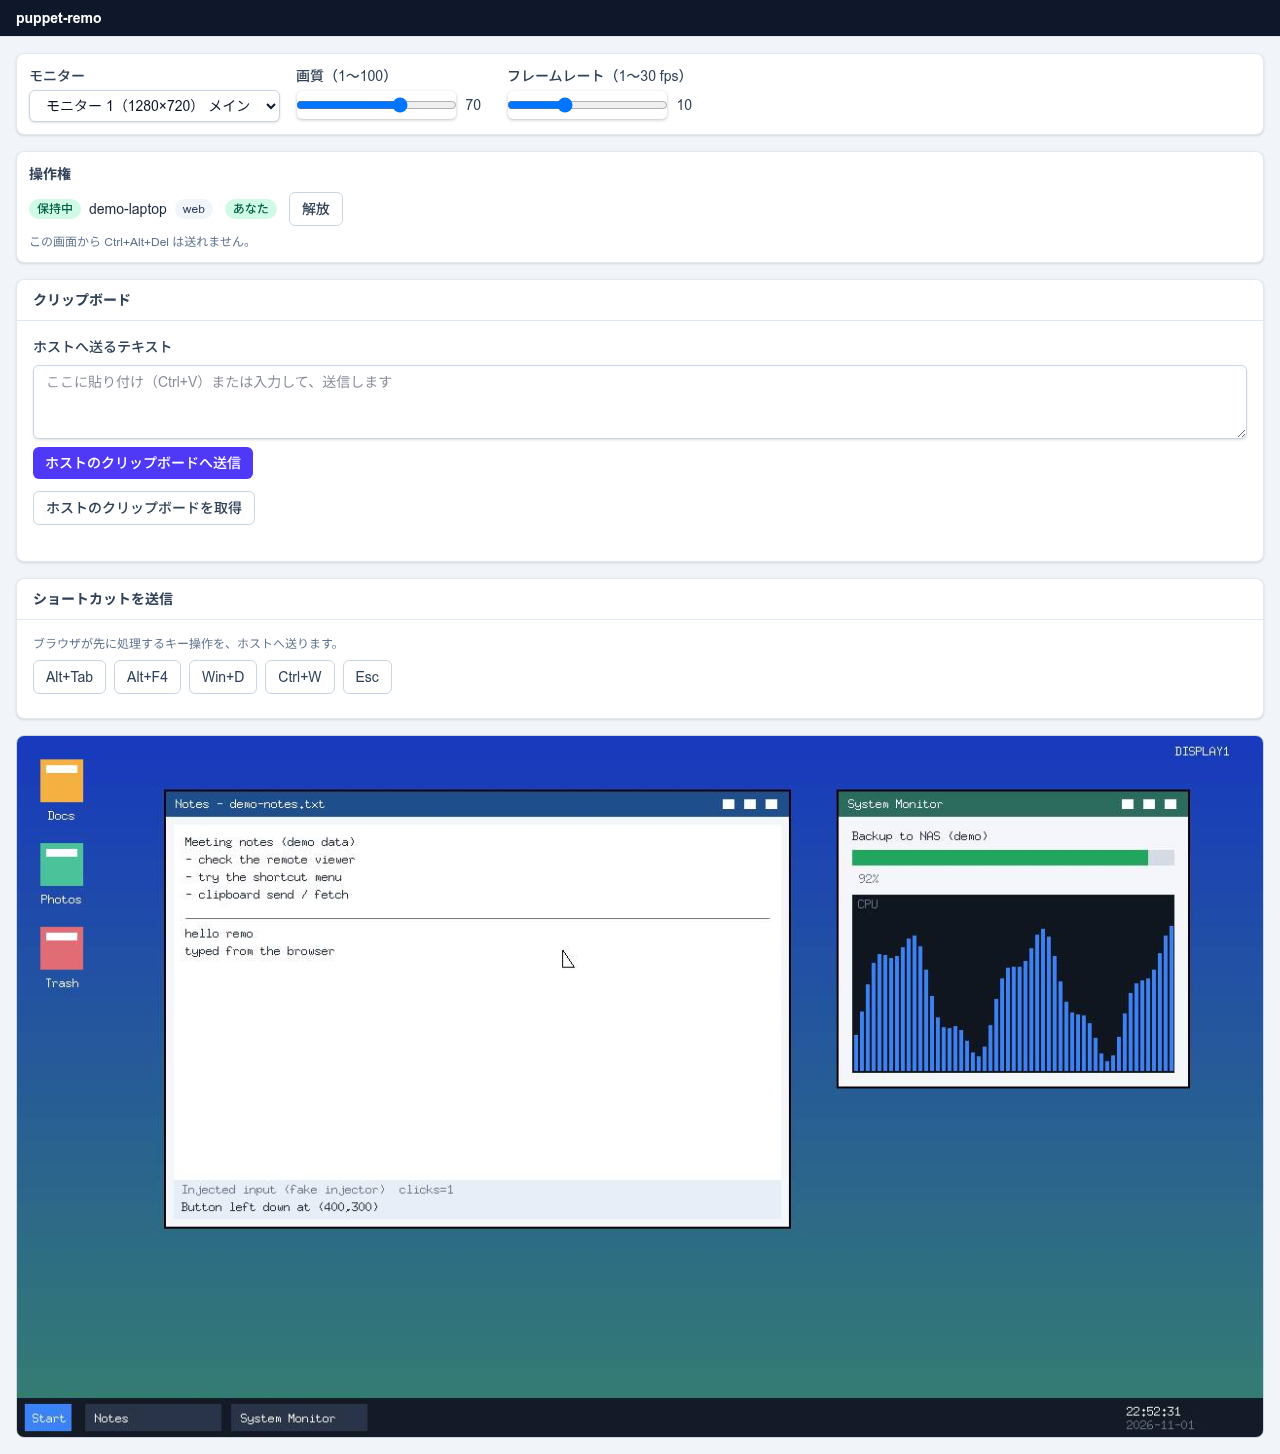
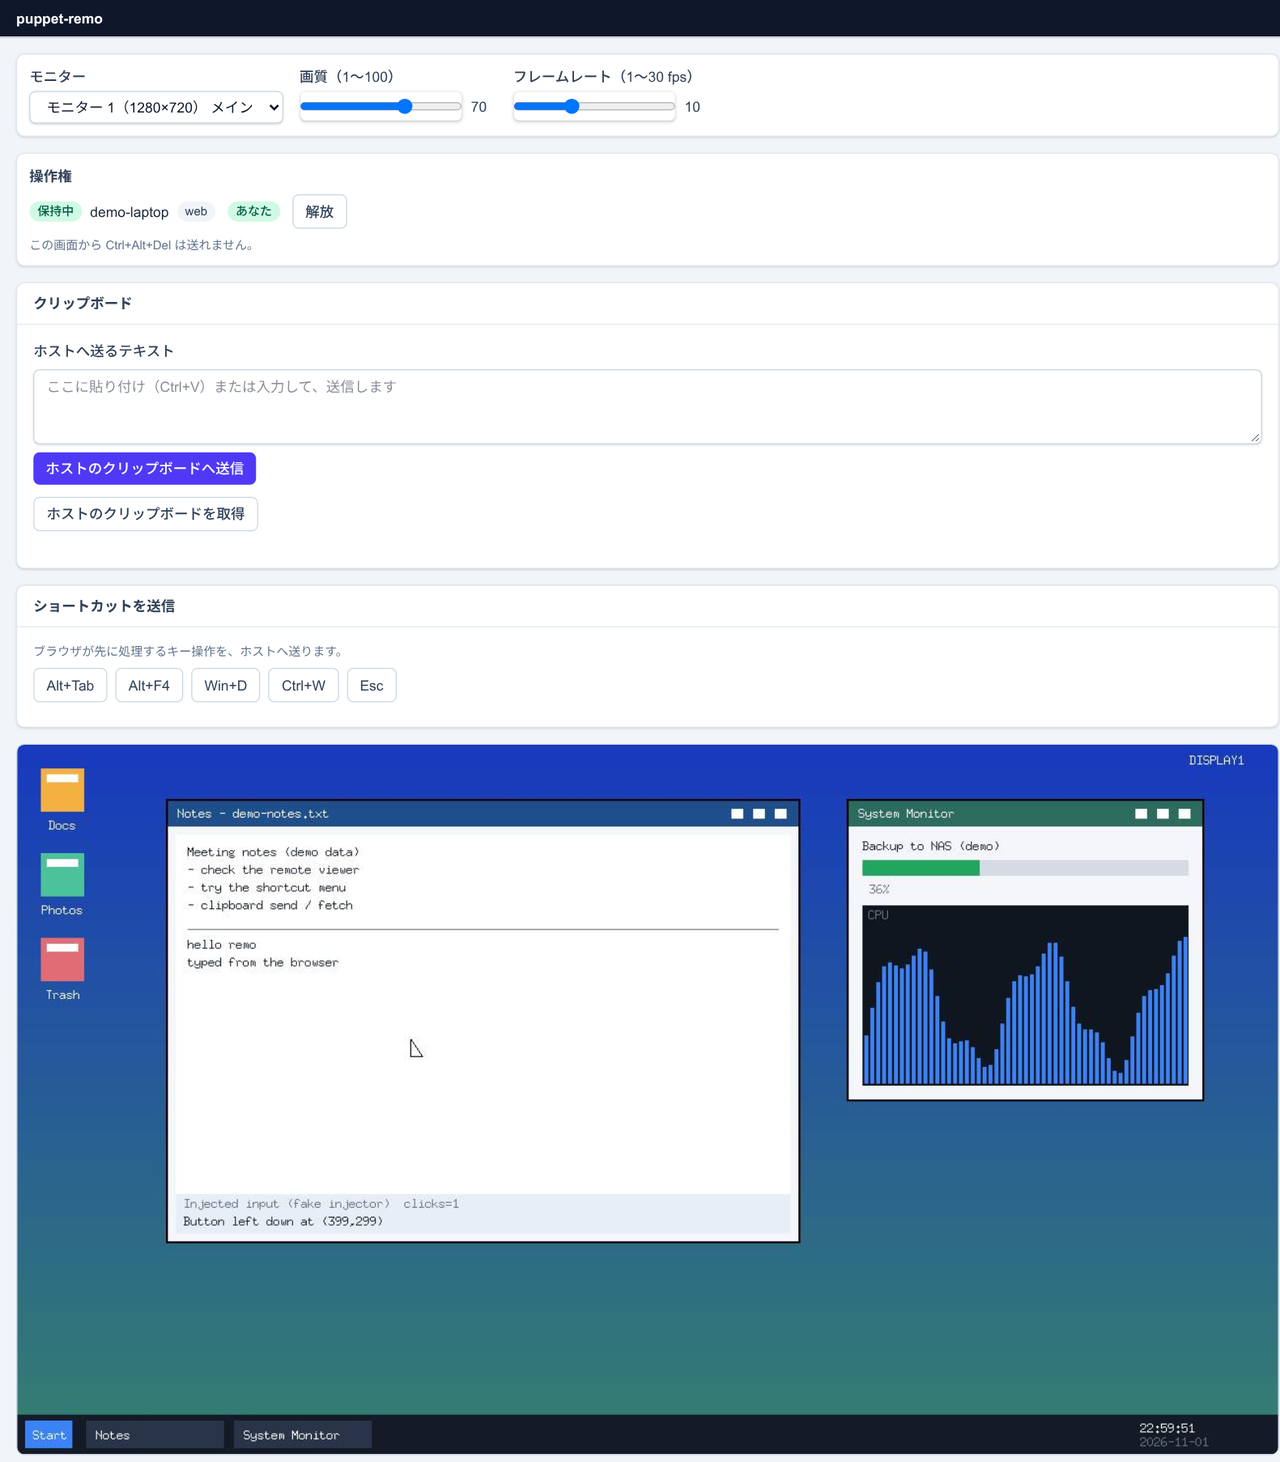
fix: 操作権の取得後も <remo-screen-viewer> が入力を送らない不具合を修正（入力の可否は lease の mine だけで決める）

diff --git a/static/src/components/screen-viewer/remo-screen-viewer.ts b/static/src/components/screen-viewer/remo-screen-viewer.ts
@@ -1,7 +1,7 @@
 // <remo-screen-viewer>: ホスト画面のライブ表示と、操作権を持つときのマウス・キーボード・IME 入力の送信
 // （docs/architecture/frontend.md §6.2、docs/api/endpoints.md §5）。
 // スタイルは Shadow DOM の `css`（constructable stylesheets）だけで、`style` 属性・`<style>` は使わない（CSP。§6.3・§7.1）。
-import { LitElement, css, html, nothing, type PropertyValues } from "lit";
+import { LitElement, css, html, nothing } from "lit";
 import { createLogger } from "../lib/logger";
 import { MessageTooLargeError, NO_RECONNECT_CLOSE_CODES, WsClient, type WsMessage } from "../lib/ws";
 import { isImeKeyEvent, keyModifiers, mouseButtonName, toStreamPoint, wheelNotches, type MouseButtonName, type StreamPoint } from "./input";
@@ -132,9 +132,11 @@ export class RemoScreenViewer extends LitElement {
     this.closeCode = 0;
   }
 
-  // 入力が有効: readonly が無く、最後に受信した lease が mine: true（サーバー側でも入力は常に検査される）。
+  // 入力が有効: 最後に受信した lease が mine: true（サーバー側でも入力は常に検査される）。
+  // readonly は描画時の操作権の有無を表す初期のヒントにすぎない。HTMX はこのコンポーネントを差し替えないので、
+  // 操作権の取得・解放・剥奪で属性は更新されない。入力の可否は WebSocket の lease だけで決める（ready で現在の状態が届く）。
   private get inputEnabled(): boolean {
-    return !this.readonly && this.leaseMine;
+    return this.leaseMine;
   }
 
   connectedCallback(): void {
@@ -163,12 +165,6 @@ export class RemoScreenViewer extends LitElement {
     sink.addEventListener("keyup", this.onKeyUp);
     sink.addEventListener("compositionend", this.onCompositionEnd);
     sink.addEventListener("blur", this.onBlur);
-  }
-
-  protected updated(changed: PropertyValues): void {
-    if (changed.has("readonly")) {
-      this.syncInput();
-    }
   }
 
   protected render() {
@@ -399,7 +395,7 @@ export class RemoScreenViewer extends LitElement {
     return canvas ? toStreamPoint(clientX, clientY, canvas.getBoundingClientRect(), canvas.width, canvas.height) : null;
   }
 
-  // 入力が無効になったとき（readonly の付与、リースの喪失）は、押下中の状態を送らずに捨てる（サーバーが解放する）。
+  // 入力が無効になったとき（リースの喪失）は、押下中の状態を送らずに捨てる（サーバーが解放する）。
   private syncInput(): void {
     if (!this.inputEnabled) {
       this.releaseInput(false);

diff --git a/docs/architecture/frontend.md b/docs/architecture/frontend.md
@@ -316,7 +316,7 @@ func (h *Handler) Clients(c *gin.Context) {
 | 属性 | 型 | 内容 |
 |------|----|------|
 | `ws-url` | string | `ws://<host>:<port>/ws/screen?viewer_id=<ULID>`。サーバーが描画時に埋め込む |
-| `readonly` | boolean | 描画時にサーバーが判定した入力の可否。操作権を持たなければ付与する |
+| `readonly` | boolean | 描画時にサーバーが判定した操作権の有無（持たなければ付与する）。**初期描画のヒントにすぎず、入力の可否は決めない**（下の「入力」。HTMX はコンポーネントを swap しないので、取得・解放・剥奪で更新されない） |
 | `monitor` / `quality` / `fps` | number | **初期値**。接続後はサーバーの `config` メッセージが正で、HTMX のツールバー（Lit の外）からの変更はサーバー経由で反映される |
 
 ```go
@@ -366,11 +366,11 @@ stateDiagram-v2
 - `ready` / `config` の `width` / `height` で `canvas` のサイズを決める（ストリームの座標空間 = モニターの物理ピクセル）。CSS で表示サイズに縮小する
 - バイナリフレーム（API 仕様 §5.4）を受信したら、各タイルの JPEG を `createImageBitmap` で復号し、`(x, y)` に描画する。連番（`seq`）が古いフレームは捨てる。キーフレーム（bit0）は全面を置き換える。復号中に新しいフレームが来ても、描画は連番の順に行う
 - `width` / `height` が変わったら `canvas` を作り直し、次のキーフレームまで描画を保留する
-- 閲覧のみ（`readonly` または非保持）でも描画は行う
+- 閲覧のみ（非保持）でも描画は行う
 
 **入力（操作権を持つときだけ）**
 
-「入力が有効」とは、`readonly` が付いておらず、かつ最後に受信した `lease` メッセージで `mine: true` であること。`readonly` は描画時のサーバー判定で、その後の変化は WebSocket の `lease`（サーバーが判定した `mine`）で切り替える。HTMX はコンポーネントを swap しないため、属性の再描画に頼らない。サーバー側でも入力は常に検査される（リース・InputGuard）。
+「入力が有効」とは、最後に受信した `lease`（`ready` の `lease` を含む）が `mine: true` であること。`mine: false`（他者の保持・空き・剥奪）では閲覧のみで、`mine` が `false` になった時点で押下中のキー・ボタンを送らずに捨てる（サーバーが解放する）。`readonly` 属性は描画時のサーバー判定を表す初期のヒントで、入力の可否には使わない（HTMX はコンポーネントを swap しないため、取得・解放・剥奪の後も属性は描画時のままで、これに頼ると操作権を取得しても入力が送られない）。サーバー側でも入力は常に検査される（リース・InputGuard）。
 
 | 入力 | 送るメッセージ（API 仕様 §5.3） | 備考 |
 |------|------------------------------|------|
@@ -499,7 +499,7 @@ graph LR
 |---------|------|---------|
 | Go ハンドラ（GUI・リモート） | `httptest` + HTML アサーション | ページルートの `HX-Request` 分岐（フルページに `<html>` が有る / フラグメントに無い）、アクションルートが常にフラグメント、ステータスコード、`/api/v1` が JSON、ミドルウェアの拒否（Host / Origin / ヘッダー / 未登録 / キルスイッチ）、エラーのフラグメントの `data-error-code`、**すべての HTML レスポンス（エラーページ・キルスイッチの 503 を含む）に §7.1 の CSP ヘッダーが付くこと** |
 | Templ | Go のテストで `Render()` → HTML 文字列のアサーション | **状態駆動レンダリング**: 権限・状態ごとに、押せないボタンが**描画されていない**こと（`CanRevoke = false` なら強制剥奪のボタンが HTML に無い）。キルスイッチ中は操作系が無い。**CSP 適合**: 描画した HTML に、`src` の無い `<script>`、`<style>`、`style=` 属性、`on*` 属性、`hx-on` 系の属性、`js:` 接頭辞、`hx-trigger` の `[...]` フィルターが無いこと |
-| Lit（`<remo-screen-viewer>`。M2） | `@open-wc/testing` + `@web/test-runner`（ヘッドレス Chromium） | タイルの描画（偽の WebSocket から画像を流す）、座標変換、連番の古いフレームの破棄、キーフレームでの置換、`readonly` と `lease.mine` による入力の有効・無効、フォーカスを失ったときの `up` 送信、再接続の方針（再接続しない閉じコード）、`remo:lease-changed` の発火 |
+| Lit（`<remo-screen-viewer>`。M2） | `@open-wc/testing` + `@web/test-runner`（ヘッドレス Chromium） | タイルの描画（偽の WebSocket から画像を流す）、座標変換、連番の古いフレームの破棄、キーフレームでの置換、`lease.mine` による入力の有効・無効（`readonly` 属性が付いたままでも、`mine: true` の `lease` で入力が送られること）、フォーカスを失ったときの `up` 送信、再接続の方針（再接続しない閉じコード）、`remo:lease-changed` の発火 |
 | E2E（M2） | Playwright（Chromium。Linux のセルフホストランナー） | **偽の `platform` と偽の tailnet（`Listener` / `WhoIs` のテスト用実装）で起動したテスト専用のサーバー**（ビルドタグ `e2e`。本番のバイナリには含めない）に対して、リモートの Web UI を操作する: 未登録デバイスの待機ページ → ホスト側で許可 → ビューアの表示 → 操作権の取得 → クリックが偽の injector に届く → 強制剥奪 → キルスイッチ。全ページで CSP 違反（`securitypolicyviolation`）が 0 件であること（§7.1） |
 | GUI ルーターの E2E | `httptest` で足りる範囲に限る | Wails のウィンドウ自体（トレイ、承認ダイアログのウィンドウ、オーバーレイ）の動作は実機スモーク（コンポーネント設計 §10） |
 
@@ -567,3 +567,4 @@ M1 はホスト GUI（GUI ルーター）だけを作る。本書にあって M1
 | 1.13 | 2026-11-01 | §10 のトレースの GUI の強制剥奪ボタン（M2。`CanRevoke` のときだけ描画、`POST /lease/revoke`）を実装に合わせて更新 | #58 |
 | 1.14 | 2026-11-01 | §12 に Web UI（`/viewer`。`handler/remote`・`layout/remote`・`organisms/viewer_*`・`pages/viewer`・待機・拒否・失効のページ）の実装と、`<remo-screen-viewer>` の成果物は #63 が出すこと、`app.ts` のスライダーの数値の追従を追記 | #62 |
 | 1.15 | 2026-11-01 | §6.2 に IME とキー入力を受ける見えない入力要素、§6.4 に再接続の試行の数え直しを追記。§12 の差分表（`lit`・`lib/ws.ts`・`lib/logger.ts`・`components/`・esbuild のエントリー・Lit のテストと E2E を作らないこと）を更新 | #63 |
+| 1.16 | 2026-11-01 | §6.2 の `readonly` を初期描画のヒントに限定し、入力の有効・無効は WebSocket の `lease`（`mine`）だけで決めると明記（操作権の取得後も `readonly` が残って入力が送られない不具合の修正） | #63 |

diff --git a/docs/screenshots/m2/README.md b/docs/screenshots/m2/README.md
@@ -19,9 +19,3 @@
 | `viewer-clipboard.png` | クリップボードの送信と取得（送ったテキストを、ホストのクリップボードから取得して表示） |
 | `viewer-waiting.png` | 未登録デバイスの待機ページ（接続要求の送信後。許可されるまで待つ） |
 | `dashboard-force-revoke.png` | ホストのダッシュボード（Web 保持者 `demo-laptop` と強制剥奪ボタン） |
-
-## 撮影時の注意
-
-- `viewer-control.png` の入力（マウス・キー）は、`<remo-screen-viewer>` の `readonly` 属性が「操作権を取得」の後も付いたままだったため、
-  撮影用の使い捨てスクリプトで属性を外してから送った（`readonly` は描画時にだけ決まり、リースパネルの差し替えでは更新されない）。
-  この挙動は製品コードの確認事項として別に報告している（このデモ・スクリーンショットでは製品コードを変えていない）。
